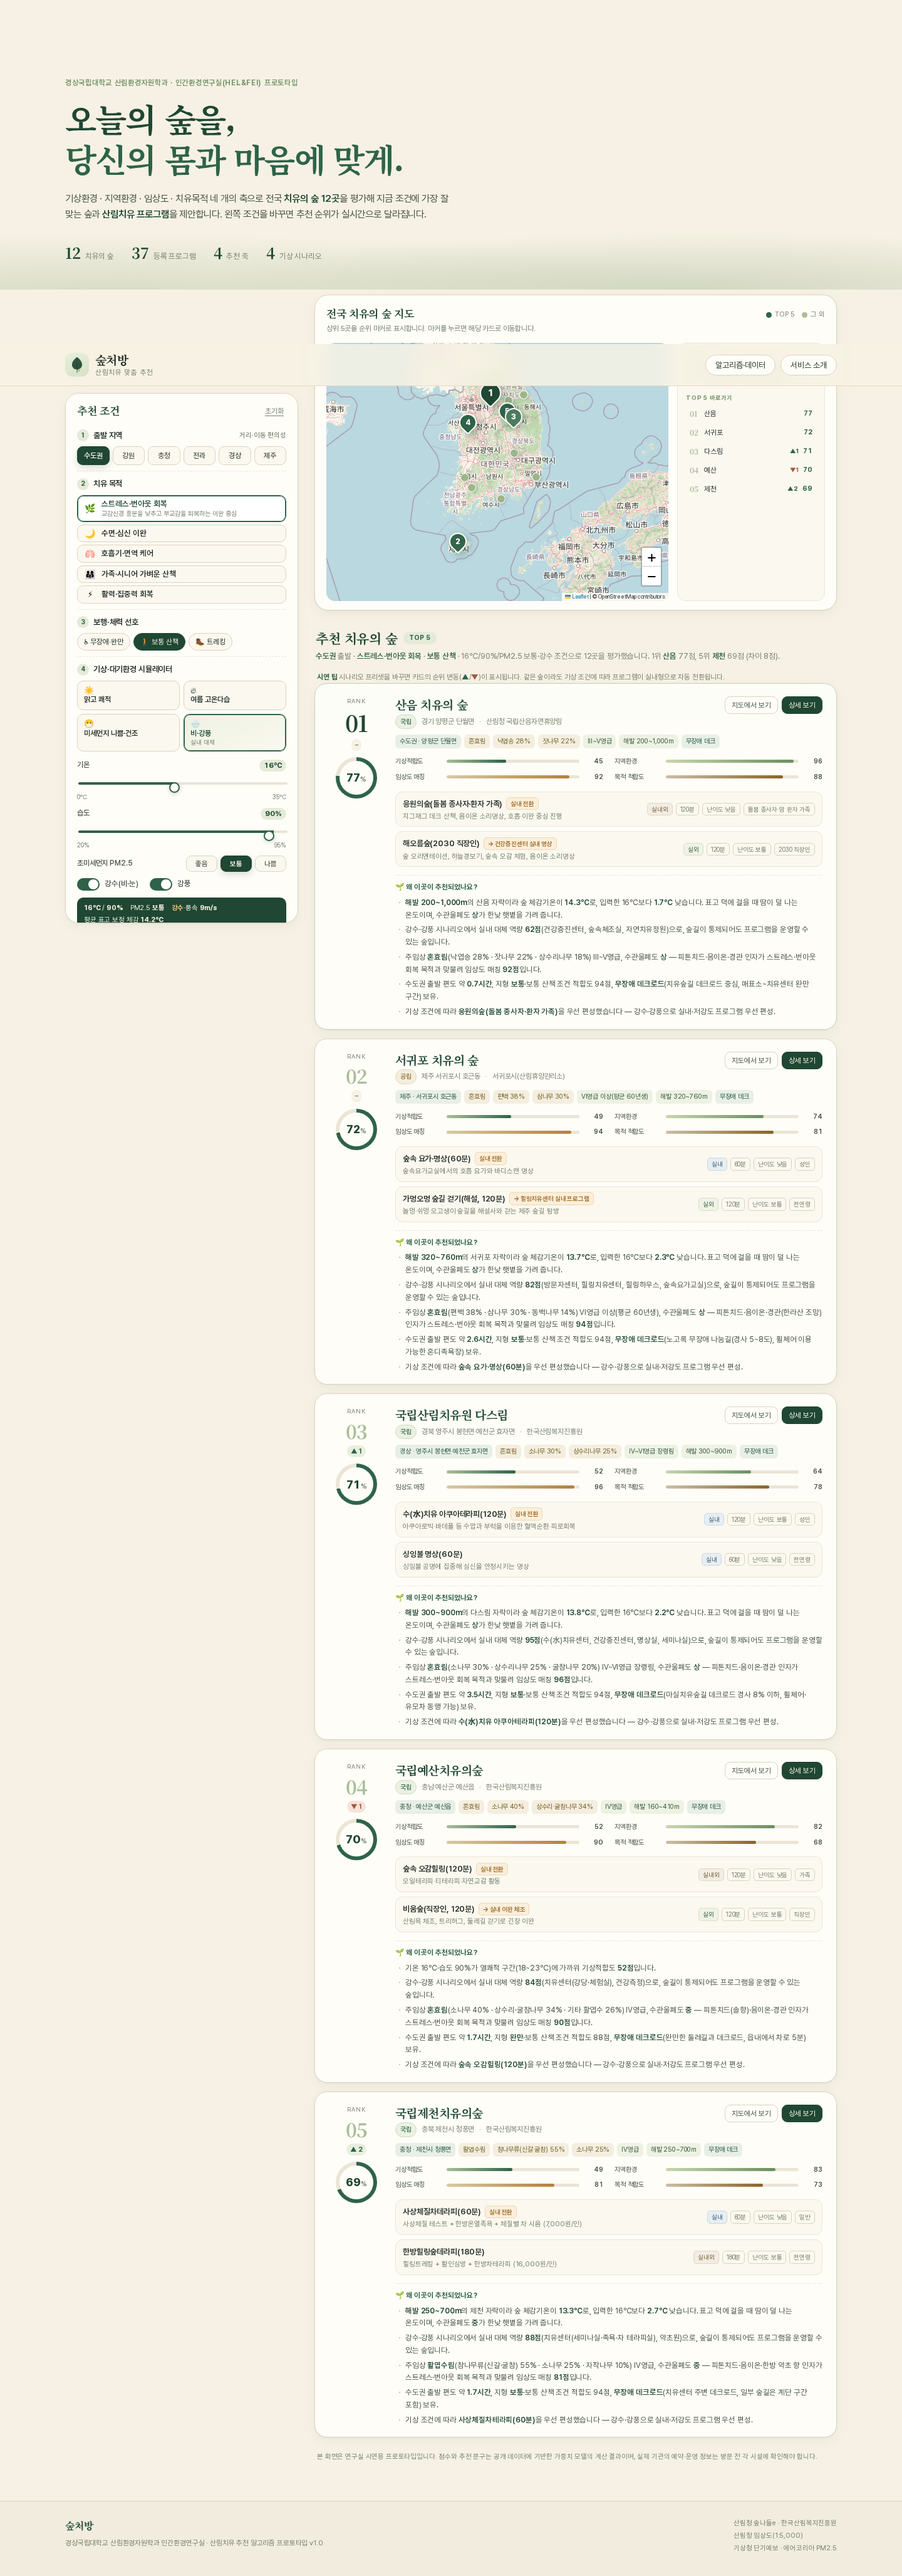
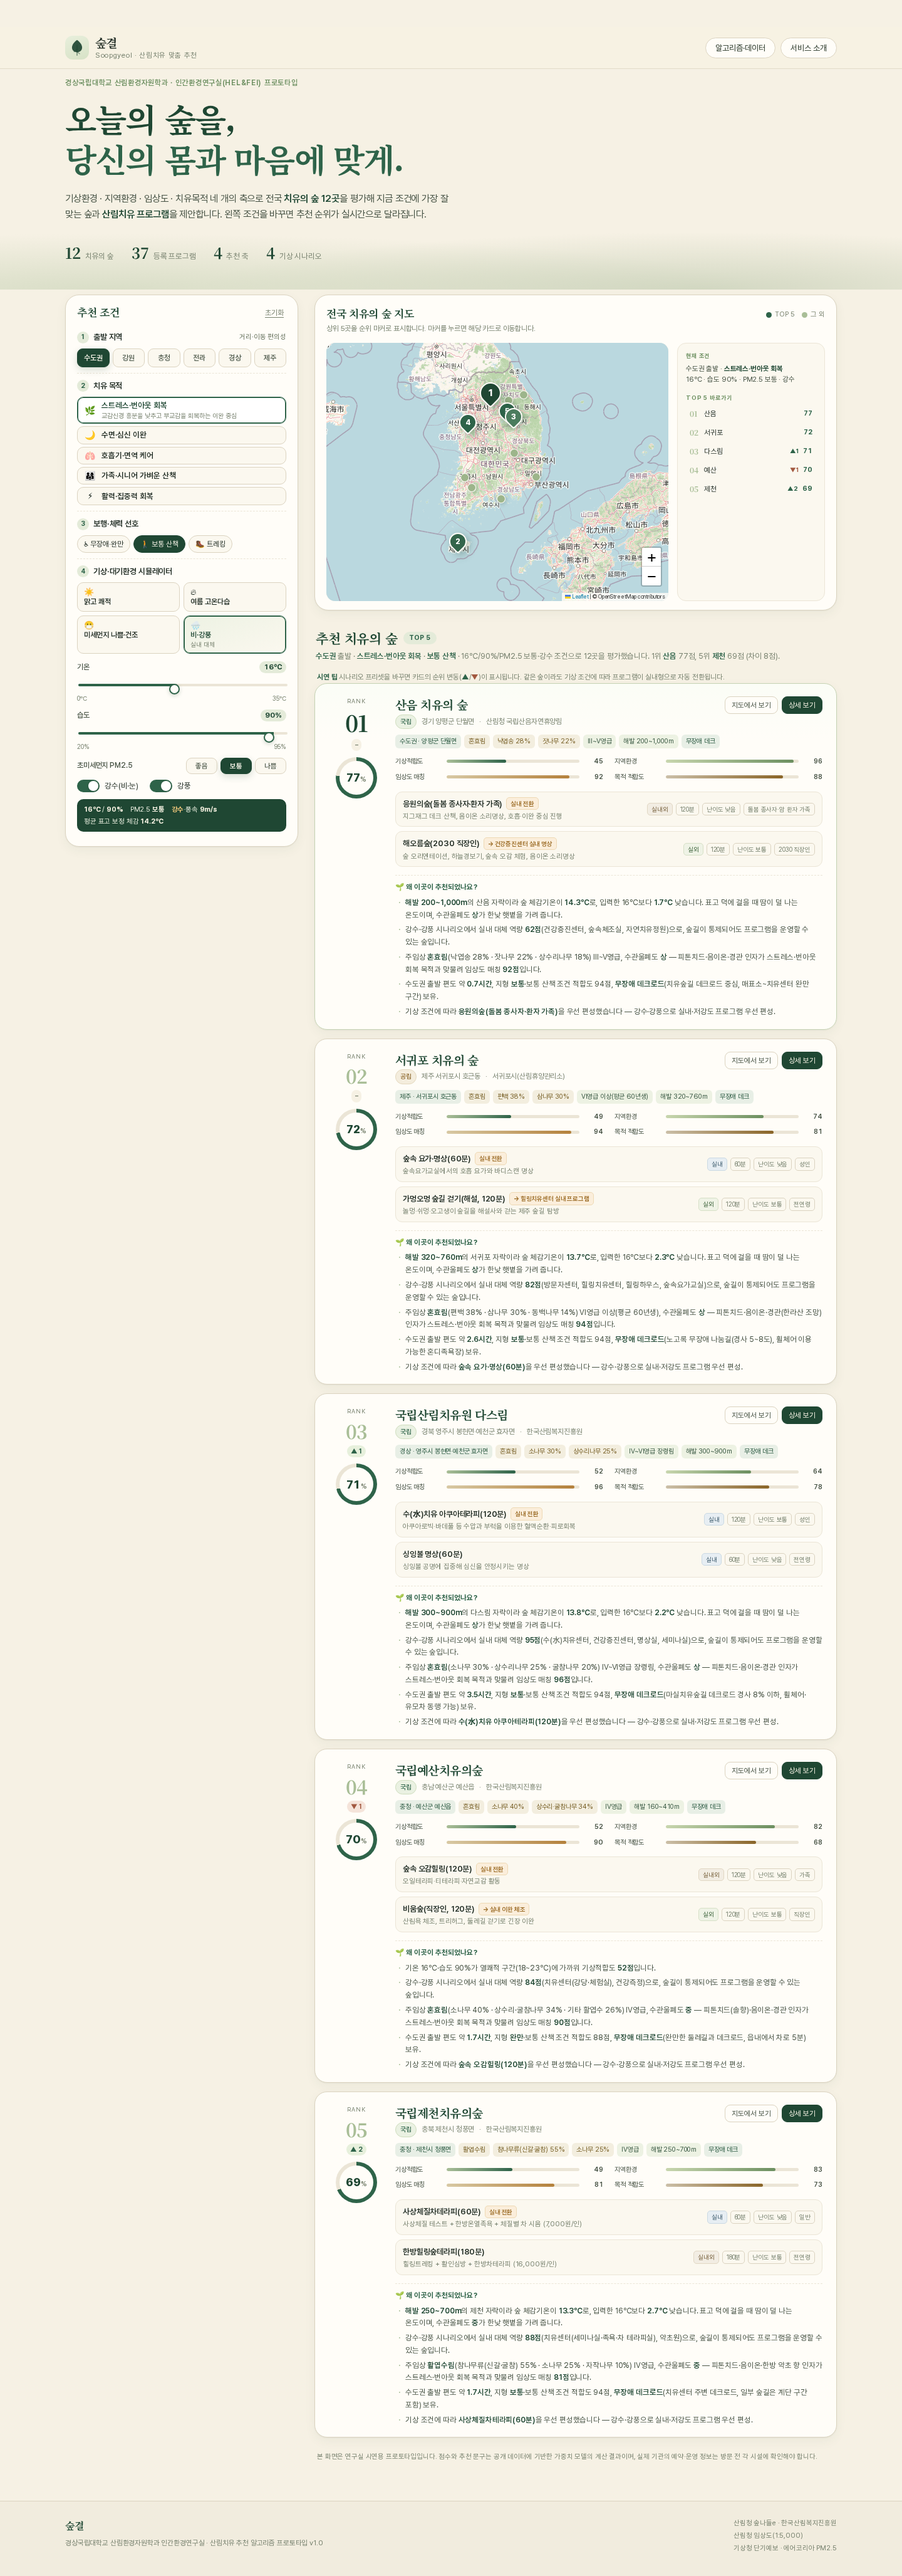
브랜드 변경: 숲처방 → 숲결(Soopgyeol)
- 서비스명 표기 일괄 변경 (헤더·타이틀·푸터·서비스 소개 모달·README·소스 주석)
- 소개 모달 부제를 새 이름의 뜻(숲의 결을 읽어 사람의 조건에 잇다)에 맞게 다듬음
- 미리보기 스크린샷 4종 새 이름으로 재촬영

diff --git a/index.html b/index.html
@@ -3,8 +3,8 @@
 <head>
 <meta charset="UTF-8" />
 <meta name="viewport" content="width=device-width, initial-scale=1.0" />
-<title>숲처방 — 산림치유 맞춤 추천 | 경상국립대 인간환경연구실</title>
-<meta name="description" content="기상환경·지역환경·임상도·치유목적 4축으로 전국 치유의 숲 12곳과 산림치유 프로그램을 추천하는 대국민 서비스 프로토타입" />
+<title>숲결 (Soopgyeol) — 산림치유 맞춤 추천 | 경상국립대 인간환경연구실</title>
+<meta name="description" content="숲결(Soopgyeol) — 기상환경·지역환경·임상도·치유목적 4축으로 전국 치유의 숲 12곳과 산림치유 프로그램을 추천하는 대국민 서비스 프로토타입" />
 <link rel="preconnect" href="https://fonts.googleapis.com" />
 <link rel="preconnect" href="https://fonts.gstatic.com" crossorigin />
 <link rel="stylesheet" href="https://fonts.googleapis.com/css2?family=Noto+Sans+KR:wght@400;500;700&family=Noto+Serif+KR:wght@500;600;700&display=swap" />
@@ -25,8 +25,8 @@
         </svg>
       </span>
       <span class="brand-text">
-        <strong>숲처방</strong>
-        <em>산림치유 맞춤 추천</em>
+        <strong>숲결</strong>
+        <em>Soopgyeol · 산림치유 맞춤 추천</em>
       </span>
     </a>
     <nav class="header-actions">
@@ -165,7 +165,7 @@
 <footer class="site-footer">
   <div class="wrap footer-inner">
     <div>
-      <strong>숲처방</strong>
+      <strong>숲결</strong>
       <p>경상국립대학교 산림환경자원학과 인간환경연구실 · 산림치유 추천 알고리즘 프로토타입 v1.0</p>
     </div>
     <ul class="source-list">
@@ -333,13 +333,13 @@
     <button class="modal-close" data-close aria-label="닫기">✕</button>
     <header class="modal-head">
       <p class="eyebrow">About</p>
-      <h2 id="about-title">숲처방</h2>
-      <p>기상과 임상, 그리고 사람의 목적을 함께 읽는 산림치유 추천 서비스</p>
+      <h2 id="about-title">숲결 <span class="about-en">Soopgyeol</span></h2>
+      <p>숲의 결을 읽어, 사람의 조건에 잇는 산림치유 추천 서비스</p>
     </header>
     <div class="about-body">
       <p>
         치유의 숲은 숲마다 표고와 수종, 숲길의 경사, 프로그램의 성격이 다릅니다. 같은 날 같은 사람이라도
-        기온과 미세먼지, 이동 거리에 따라 가장 알맞은 숲은 달라집니다. 숲처방은 이 차이를 네 개의 축으로
+        기온과 미세먼지, 이동 거리에 따라 가장 알맞은 숲은 달라집니다. 숲결은 이 차이를 네 개의 축으로
         드러내어, 국민이 자신의 조건에서 왜 그 숲이 추천되었는지 이해할 수 있게 합니다.
       </p>
       <h3>이 프로토타입이 하는 일</h3>

diff --git a/style.css b/style.css
@@ -1,5 +1,5 @@
 /* =========================================================================
-   숲처방 — style.css
+   숲결 (Soopgyeol) — style.css
    Editorial green & cream · responsive (mobile / desktop)
    ========================================================================= */
 
@@ -511,6 +511,7 @@ input[type="range"]::-moz-range-thumb {
 .modal-close:hover { background: var(--cream); color: var(--ink); }
 .modal-head { margin-bottom: 22px; padding-right: 40px; }
 .modal-head h2 { font-family: var(--font-serif); font-size: 25px; color: var(--green); margin: 6px 0 8px; }
+.modal-head h2 .about-en { font-family: var(--font-sans); font-size: 12px; font-weight: 500; letter-spacing: .14em; text-transform: uppercase; color: var(--muted); margin-left: 8px; vertical-align: middle; }
 .modal-head p { font-size: 13px; color: var(--ink-soft); }
 
 /* detail */

diff --git a/data.js b/data.js
@@ -1,5 +1,5 @@
 /* =========================================================================
-   숲처방 — 산림치유 맞춤 추천 프로토타입
+   숲결 (Soopgyeol) — 산림치유 맞춤 추천 프로토타입
    data.js : 치유의 숲 12곳 실데이터 + 기상 시나리오 + 권역 이동시간
    -------------------------------------------------------------------------
    · 좌표는 카카오맵 주소 지오코딩 결과(대표 지점)

diff --git a/app.js b/app.js
@@ -1,5 +1,5 @@
 /* =========================================================================
-   숲처방 — app.js
+   숲결 (Soopgyeol) — app.js
    4축(기상환경 × 지역환경 × 임상도 × 치유목적) 가중합 추천 엔진 + UI
    ========================================================================= */
 (function () {

diff --git a/README.md b/README.md
@@ -1,4 +1,4 @@
-# 숲처방 — 산림치유 맞춤 추천 웹 프로토타입
+# 숲결 (Soopgyeol) — 산림치유 맞춤 추천 웹 프로토타입
 
 기상환경 · 지역환경 · 임상도 · 치유목적 **4축 가중합 모델**로 전국 **치유의 숲 12곳**과
 **산림치유 프로그램**을 추천하는 대국민 서비스 프로토타입입니다.
